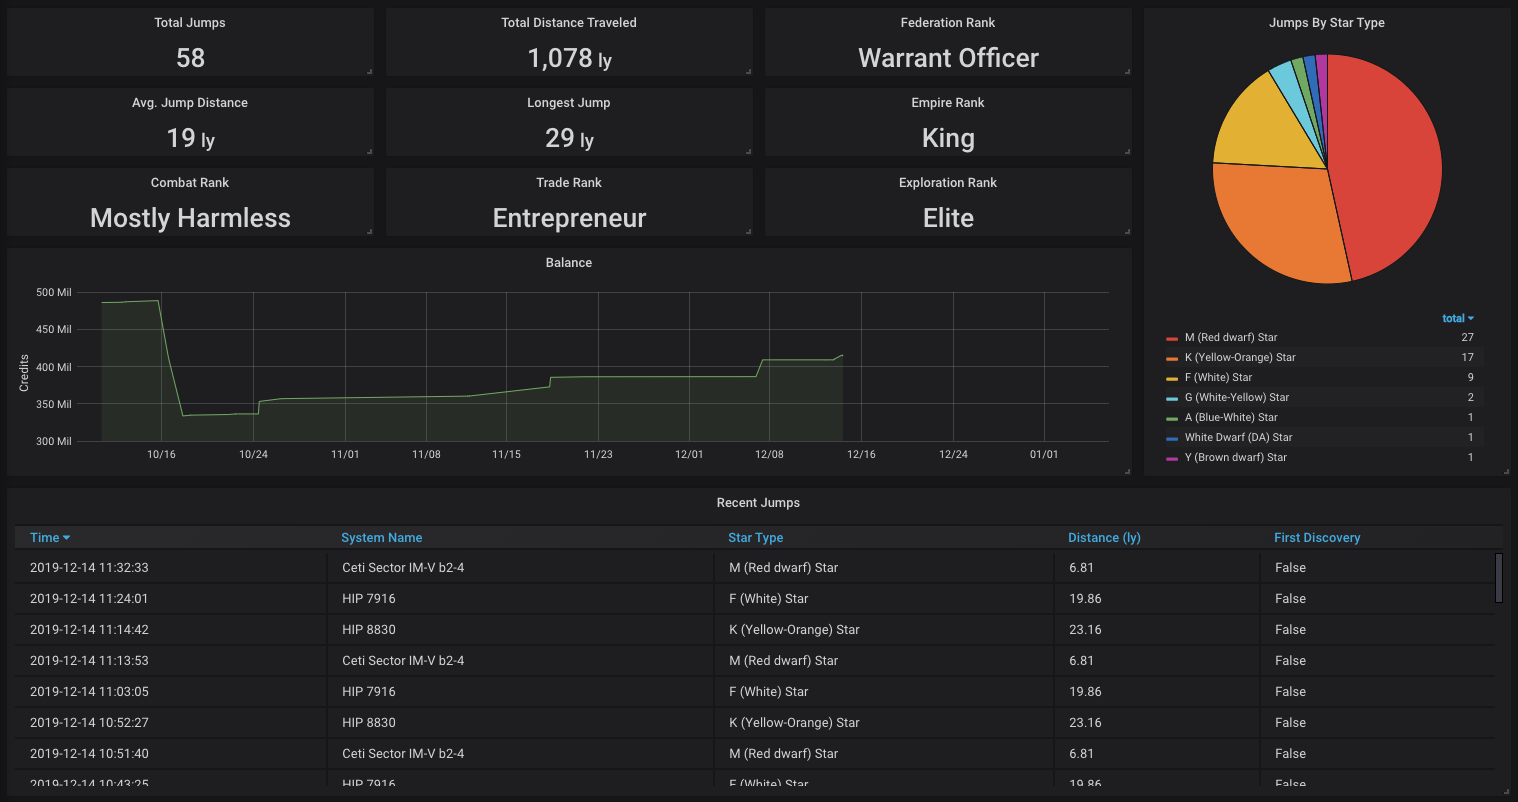
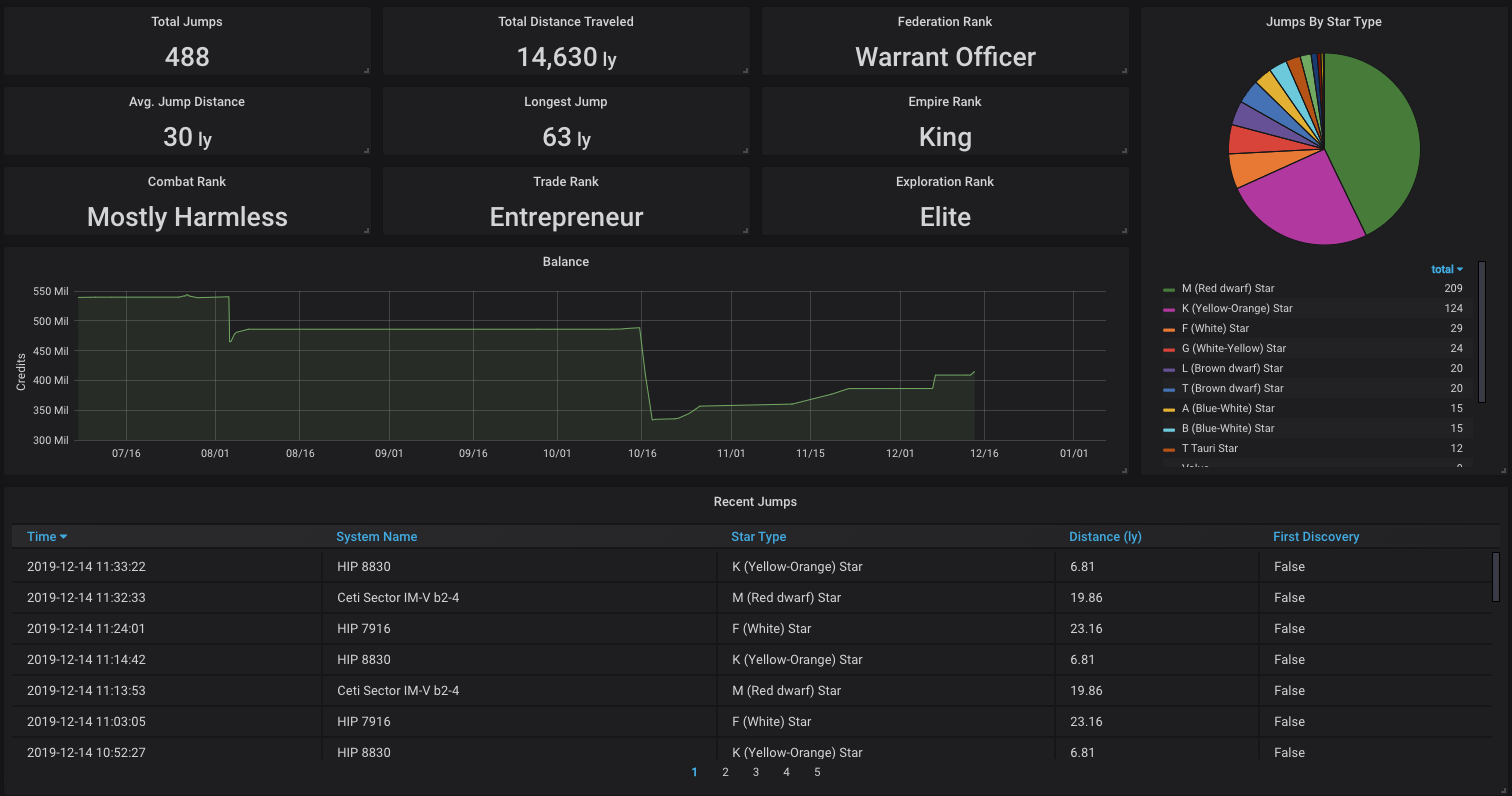
fetch 2 pages of jumps to avoid gaps

diff --git a/edsm.py b/edsm.py
@@ -26,8 +26,10 @@ INFLUXDB_USERNAME = 'root'
 INFLUXDB_PASSWORD = 'root'
 INFLUXDB_DATABASE = 'edsm'
 points = []
+last = None
 
 def add_rank(data, activity):
+    global points
     points.append({
         "measurement": "rank",
         "time": date.today().isoformat() + "T00:00:00",
@@ -57,13 +59,51 @@ def distance(system1, system2):
     s1 = fetch_system(system1)
     s2 = fetch_system(system2)
 
-    dx = s1['coords']['x'] - s2['coords']['x']
-    dy = s1['coords']['y'] - s2['coords']['y']
-    dz = s1['coords']['z'] - s2['coords']['z']
+    dx = float(s1['coords']['x']) - float(s2['coords']['x'])
+    dy = float(s1['coords']['y']) - float(s2['coords']['y'])
+    dz = float(s1['coords']['z']) - float(s2['coords']['z'])
 
     return math.sqrt(dx*dx + dy*dy + dz*dz)
 
+def add_jump(src, dst):
+    global points
+    system = fetch_system(dst['system'])
+    if 'type' in system['primaryStar']:
+        points.append({
+            "measurement": "jump",
+            "time": datetime.fromisoformat(dst['date']).isoformat(),
+            "tags": {
+                "commander": EDSM_COMMANDER_NAME,
+                "system": dst['system'],
+                "firstDiscover": dst['firstDiscover'],
+                "primaryStarType": system['primaryStar']['type']
+            },
+            "fields": {
+                "distance": distance(src['system'], dst['system']),
+                "x": float(system['coords']['x']),
+                "y": float(system['coords']['y']),
+                "z": float(system['coords']['z'])
+            }
+        })
+    else:
+        points.append({
+            "measurement": "jump",
+            "time": datetime.fromisoformat(dst['date']).isoformat(),
+            "tags": {
+                "commander": EDSM_COMMANDER_NAME,
+                "system": dst['system'],
+                "firstDiscover": dst['firstDiscover']
+            },
+            "fields": {
+                "distance": distance(src['system'], dst['system']),
+                "x": float(system['coords']['x']),
+                "y": float(system['coords']['y']),
+                "z": float(system['coords']['z'])
+            }
+        })
+
 def fetch_jumps(time):
+    global last
     try:
         response = requests.get('https://www.edsm.net/api-logs-v1/get-logs',
             params={'commanderName':EDSM_COMMANDER_NAME, 'apiKey':EDSM_API_KEY, 'endDateTime':time})
@@ -75,23 +115,9 @@ def fetch_jumps(time):
     data = response.json()
     print("Got %s jumps from EDSM" % (len(data['logs'])))
 
-    last = None
     for jump in data['logs']:
-        system = fetch_system(jump['system'])
         if last != None:
-            points.append({
-                "measurement": "jump",
-                "time": datetime.fromisoformat(jump['date']).isoformat(),
-                "tags": {
-                    "commander": EDSM_COMMANDER_NAME,
-                    "firstDiscover": jump['firstDiscover'],
-                    "primaryStarType": system['primaryStar']['type']
-                },
-                "fields": {
-                    "system": jump['system'],
-                    "distance": distance(last['system'], jump['system'])
-                }
-            })
+            add_jump(jump, last)
         last = jump
 
     return data
@@ -146,6 +172,10 @@ add_rank(data, "Empire")
 
 requests_cache.install_cache('edsm')
 data = fetch_jumps(date.today().isoformat() + " 00:00:00")
+if len(data['logs']) > 0:
+    data = fetch_jumps(data['startDateTime'])
+    while len(data['logs']) == 0:
+        data = fetch_jumps(data['startDateTime'])
 
 try:
     client.write_points(points)
